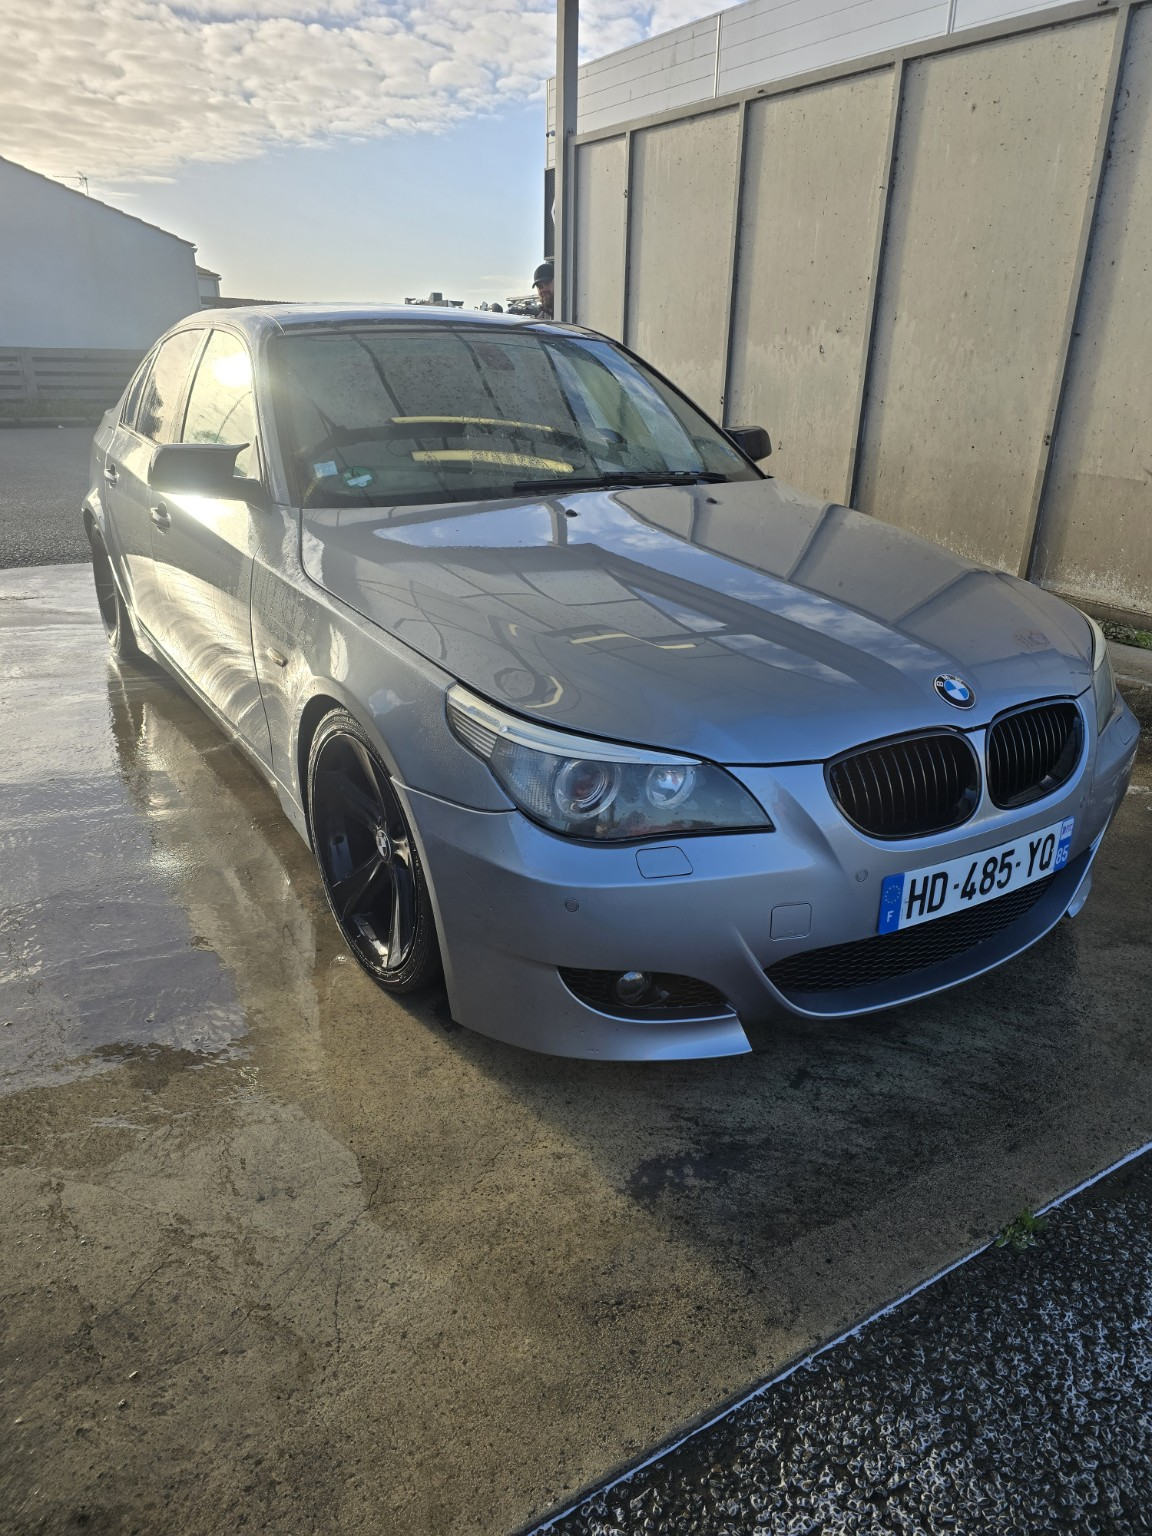
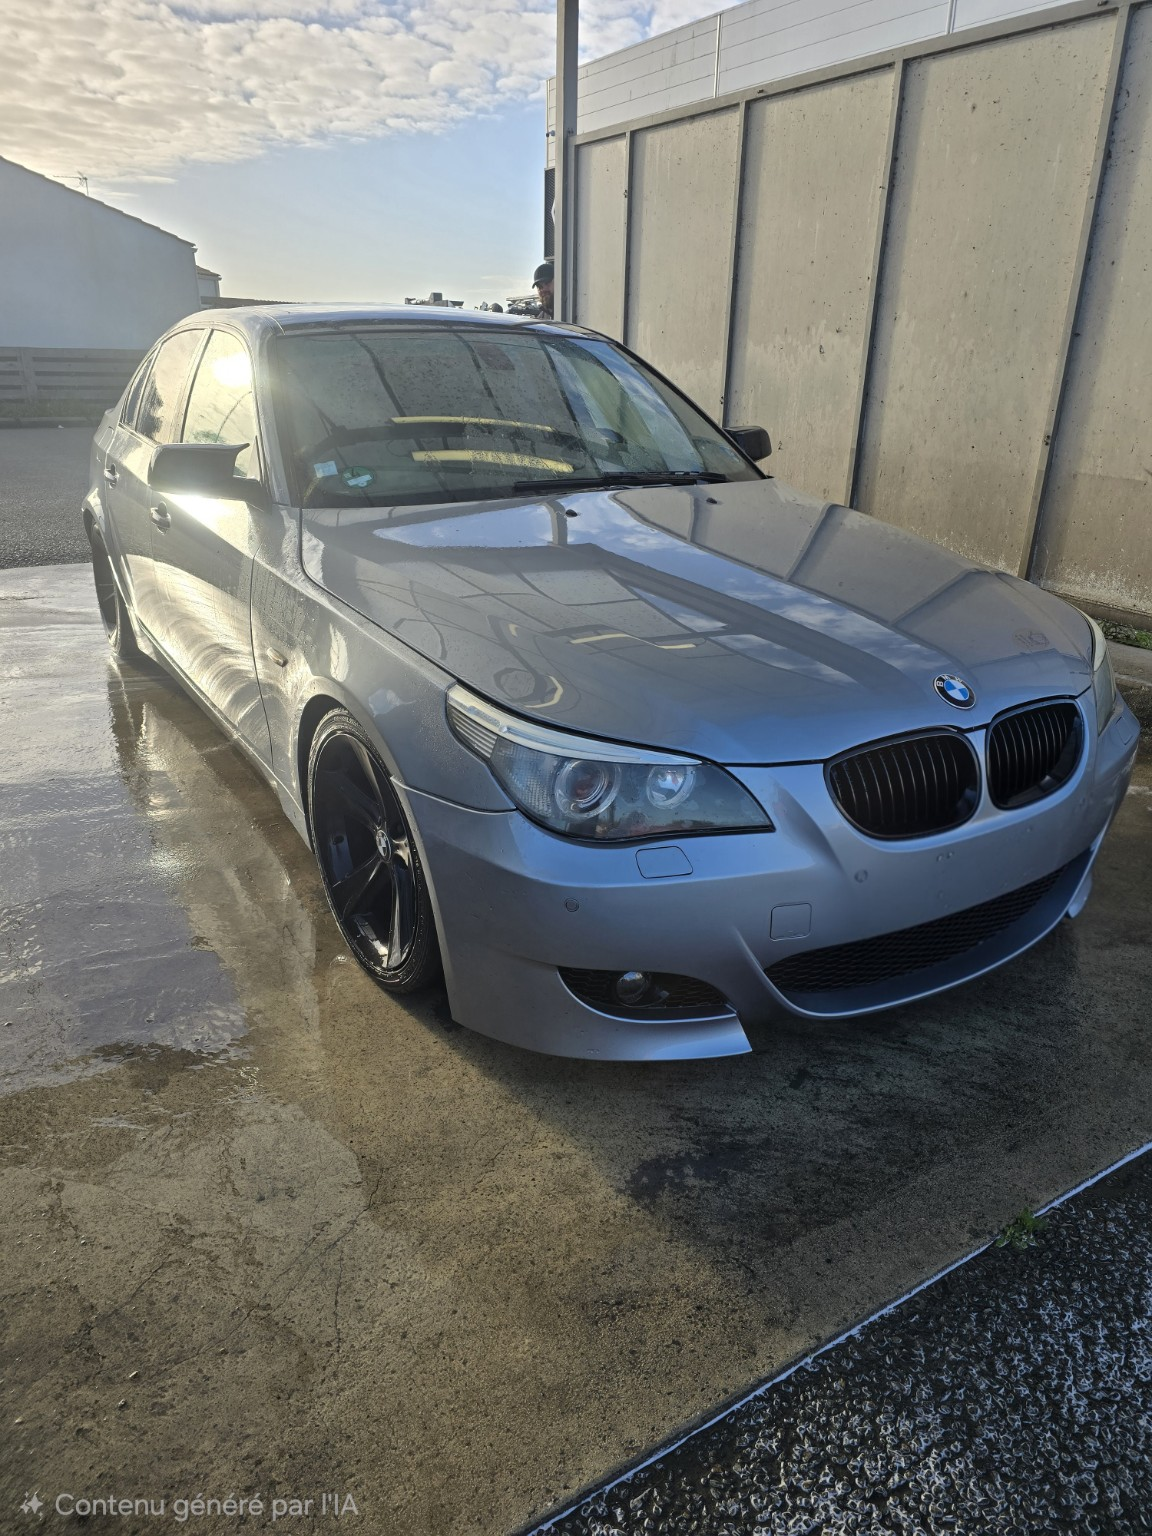
Add files via upload

Changed region(s): [[0.75, 0.5312, 0.9375, 0.625], [0.0312, 0.9688, 0.3125, 1.0]]

diff --git a/script.js b/script.js
@@ -75,13 +75,21 @@ const brandModels = {
   "Volvo":["C30","C40","S40","S60","S80","S90","V40","V60","V70","V90","XC40","XC60","XC70","XC90"],
   "Autre marque / véhicule utilitaire":["Autre modèle","Utilitaire","Camping-car","Véhicule importé","Modèle non listé"]
 };
-const brandSelect=document.querySelector("#brand"), modelSelect=document.querySelector("#model"), engineInput=document.querySelector("#engine"), serviceSelect=document.querySelector("#service"), result=document.querySelector("#estimate-result");
+const brandSelect=document.querySelector("#brand"), modelSelect=document.querySelector("#model"), engineInput=document.querySelector("#engine"), fuelType=document.querySelector("#fuel-type"), originalPower=document.querySelector("#original-power"), serviceSelect=document.querySelector("#service"), result=document.querySelector("#estimate-result");
 Object.keys(brandModels).sort((a,b)=>a.localeCompare(b,"fr")).forEach(brand=>{const o=document.createElement("option");o.value=brand;o.textContent=brand;brandSelect.appendChild(o)});
-brandSelect.addEventListener("change",()=>{modelSelect.innerHTML='<option value="">Choisir un modèle</option>';(brandModels[brandSelect.value]||[]).forEach(model=>{const o=document.createElement("option");o.value=model;o.textContent=model;modelSelect.appendChild(o)});modelSelect.disabled=!brandSelect.value;result.textContent="Indiquez la motorisation exacte (cylindrée, carburant, puissance d'origine et année) pour préparer une demande d'étude."});
-modelSelect.addEventListener("change",()=>{result.textContent=`Véhicule sélectionné : ${brandSelect.value} ${modelSelect.value}. Ajoutez la motorisation exacte pour une étude personnalisée.`});
-engineInput.addEventListener("input",()=>{if(brandSelect.value&&modelSelect.value&&engineInput.value.trim())result.textContent=`Demande prête à préparer : ${brandSelect.value} ${modelSelect.value} — ${engineInput.value.trim()} — ${serviceSelect.value}. Les gains éventuels seront confirmés après vérification.`});
-serviceSelect.addEventListener("change",()=>{if(brandSelect.value&&modelSelect.value)result.textContent=`Prestation sélectionnée : ${serviceSelect.value}. La faisabilité et les chiffres doivent être confirmés selon la version exacte.`});
-document.querySelector("#vehicle-form").addEventListener("submit",e=>{e.preventDefault();const subject=encodeURIComponent("Demande d'étude véhicule - Ouestpower");const body=encodeURIComponent(`Bonjour Ouestpower,\n\nJe souhaite une étude pour mon véhicule :\nMarque : ${brandSelect.value}\nModèle : ${modelSelect.value}\nMotorisation / année : ${engineInput.value}\nPrestation : ${serviceSelect.value}\n\nPouvez-vous me confirmer la compatibilité et les informations nécessaires ?\n\nCordialement`);window.location.href=`mailto:?subject=${subject}&body=${body}`});
+function updateEstimate(){
+  const brand=brandSelect.value, model=modelSelect.value, engine=engineInput.value.trim(), hp=Number(originalPower.value), type=fuelType.value, service=serviceSelect.value;
+  if(!brand||!model){result.textContent="Choisissez une marque et un modèle. La motorisation est facultative.";return;}
+  let msg=`Véhicule : ${brand} ${model}${engine?" — "+engine:""}. Prestation : ${service}.`;
+  if(service==="Stage 1"&&hp>0&&type){let low=0,high=0;if(type==="diesel-turbo"){low=.20;high=.30}else if(type==="essence-turbo"){low=.15;high=.25}else if(type==="atmospherique"){low=.05;high=.10}msg+=` Estimation indicative Stage 1 : environ ${Math.round(hp*(1+low))} à ${Math.round(hp*(1+high))} ch (base déclarée : ${hp} ch).`}
+  else if(service==="Stage 1"){msg+=" Pour afficher une fourchette indicative, renseignez la puissance d’origine et le type de moteur."}
+  if(service==="FlexFuel E85")msg+=" Le passage à l’E85 ne garantit pas de gain de puissance ; la compatibilité doit être vérifiée selon la version exacte.";
+  msg+=" Ces chiffres sont des ordres de grandeur et ne constituent pas une promesse de résultat. Les gains réels dépendent du moteur, de son état et de la calibration.";
+  result.textContent=msg;
+}
+brandSelect.addEventListener("change",()=>{modelSelect.innerHTML='<option value="">Choisir un modèle</option>';(brandModels[brandSelect.value]||[]).forEach(model=>{const o=document.createElement("option");o.value=model;o.textContent=model;modelSelect.appendChild(o)});modelSelect.disabled=!brandSelect.value;updateEstimate()});
+[modelSelect,engineInput,fuelType,originalPower,serviceSelect].forEach(el=>el.addEventListener("change",updateEstimate));engineInput.addEventListener("input",updateEstimate);originalPower.addEventListener("input",updateEstimate);
+document.querySelector("#vehicle-form").addEventListener("submit",e=>{e.preventDefault();const subject=encodeURIComponent("Demande d'étude véhicule - Ouestpower");const body=encodeURIComponent(`Bonjour Ouestpower,\n\nJe souhaite une étude pour mon véhicule :\nMarque : ${brandSelect.value}\nModèle : ${modelSelect.value}\nMotorisation / année : ${engineInput.value}\nType de moteur : ${fuelType.options[fuelType.selectedIndex].text}\nPuissance d’origine : ${originalPower.value?originalPower.value+" ch":"non renseignée"}\nPrestation : ${serviceSelect.value}\n\nPouvez-vous me confirmer la compatibilité et les informations nécessaires ?\n\nCordialement`);window.location.href=`mailto:ouestpower85@gmail.com?subject=${subject}&body=${body}`});
 document.querySelectorAll(".filter").forEach(btn=>btn.addEventListener("click",()=>{document.querySelectorAll(".filter").forEach(b=>b.classList.remove("active"));btn.classList.add("active");document.querySelectorAll(".work-card").forEach(card=>{card.hidden=btn.dataset.filter!=="all"&&card.dataset.category!==btn.dataset.filter})}));
 const toggle=document.querySelector(".menu-toggle"),nav=document.querySelector(".nav");toggle.addEventListener("click",()=>{const open=nav.classList.toggle("open");toggle.setAttribute("aria-expanded",String(open))});nav.querySelectorAll("a").forEach(a=>a.addEventListener("click",()=>{nav.classList.remove("open");toggle.setAttribute("aria-expanded","false")}));
 document.querySelector("#year").textContent=new Date().getFullYear();

diff --git a/index.html b/index.html
@@ -84,18 +84,20 @@
         <form class="vehicle-form" id="vehicle-form">
           <label for="brand">Marque</label><select id="brand" required><option value="">Choisir une marque</option></select>
           <label for="model">Modèle / gamme</label><select id="model" required disabled><option value="">Choisir d'abord une marque</option></select>
-          <label for="engine">Motorisation / informations</label><input id="engine" placeholder="Ex. 2.0 TDI 150, année 2018" required>
+          <label for="engine">Motorisation / informations (facultatif)</label><input id="engine" placeholder="Ex. 2.0 TDI, année 2018">
+          <label for="fuel-type">Type de moteur (pour une estimation indicative)</label><select id="fuel-type"><option value="">Je ne sais pas / autre</option><option value="diesel-turbo">Diesel turbo</option><option value="essence-turbo">Essence turbo</option><option value="atmospherique">Essence atmosphérique</option></select>
+          <label for="original-power">Puissance d’origine en ch (facultatif)</label><input id="original-power" type="number" min="1" max="2000" placeholder="Ex. 150">
           <label for="service">Prestation recherchée</label><select id="service" required><option value="Stage 1">Reprogrammation moteur / Stage 1</option><option value="FlexFuel E85">Conversion FlexFuel E85</option><option value="Diagnostic">Diagnostic / étude de faisabilité</option></select>
-          <div class="estimate-result" id="estimate-result">Choisissez une marque et indiquez votre motorisation pour préparer votre demande.</div>
+          <div class="estimate-result" id="estimate-result">Choisissez une marque et un modèle. La motorisation est facultative. Saisissez la puissance d’origine pour afficher une fourchette indicative.</div>
           <button class="button button-primary full" type="submit">Préparer ma demande ↗</button>
           <p class="form-help">Le bouton ouvre votre application de messagerie avec les informations saisies. Aucun formulaire n'est envoyé automatiquement.</p>
         </form>
       </div>
     </section>
 
-    <section class="contact-section" id="contact"><div><p class="eyebrow">VOTRE PROJET COMMENCE ICI</p><h2>Parlons de votre <em>véhicule.</em></h2><p>Envoyez la marque, le modèle, l'année et la motorisation pour une première étude de faisabilité.</p></div><div class="contact-actions"><a class="button button-primary" href="https://www.instagram.com/ouestpower/" target="_blank" rel="noopener">Instagram : @ouestpower ↗</a><a class="button button-ghost" href="#estimateur">Préparer une demande</a><p class="contact-detail">Pour une réponse rapide, envoyez un message privé sur Instagram avec la marque, le modèle, l’année et la motorisation.</p></div></section>
+    <section class="contact-section" id="contact"><div><p class="eyebrow">VOTRE PROJET COMMENCE ICI</p><h2>Parlons de votre <em>véhicule.</em></h2><p>Envoyez la marque, le modèle, l'année et la motorisation pour une première étude de faisabilité.</p></div><div class="contact-actions"><a class="button button-primary" href="https://www.instagram.com/ouestpower/" target="_blank" rel="noopener">Instagram : @ouestpower ↗</a><a class="button button-ghost" href="#estimateur">Préparer une demande</a><p class="contact-detail"><strong>Téléphone :</strong> <a href="tel:0659209142">06 59 20 91 42</a><br><strong>E-mail :</strong> <a href="mailto:ouestpower85@gmail.com">ouestpower85@gmail.com</a><br>Pour une réponse rapide, appelez-nous ou envoyez un message sur Instagram.</p></div></section>
   </main>
-  <footer class="footer"><div class="footer-contact"><strong>CONTACT OUESTPOWER</strong><a href="https://www.instagram.com/ouestpower/" target="_blank" rel="noopener">Instagram : @ouestpower ↗</a></div><a class="brand" href="#accueil"><span class="brand-mark">O<span>P</span></span><span class="brand-name">OUEST<span>POWER</span><small>REPROGRAMMATION AUTOMOBILE</small></span></a><p>© <span id="year"></span> Ouestpower — Reprogrammation moteur & FlexFuel.</p><a href="#accueil">Retour en haut ↑</a></footer>
+  <footer class="footer"><div class="footer-contact"><strong>CONTACT OUESTPOWER</strong><a href="tel:0659209142">06 59 20 91 42</a><a href="mailto:ouestpower85@gmail.com">ouestpower85@gmail.com</a><a href="https://www.instagram.com/ouestpower/" target="_blank" rel="noopener">Instagram : @ouestpower ↗</a></div><a class="brand" href="#accueil"><span class="brand-mark">O<span>P</span></span><span class="brand-name">OUEST<span>POWER</span><small>REPROGRAMMATION AUTOMOBILE</small></span></a><p>© <span id="year"></span> Ouestpower — Reprogrammation moteur & FlexFuel.</p><a href="#accueil">Retour en haut ↑</a></footer>
   <script src="script.js"></script>
 </body>
 </html>
